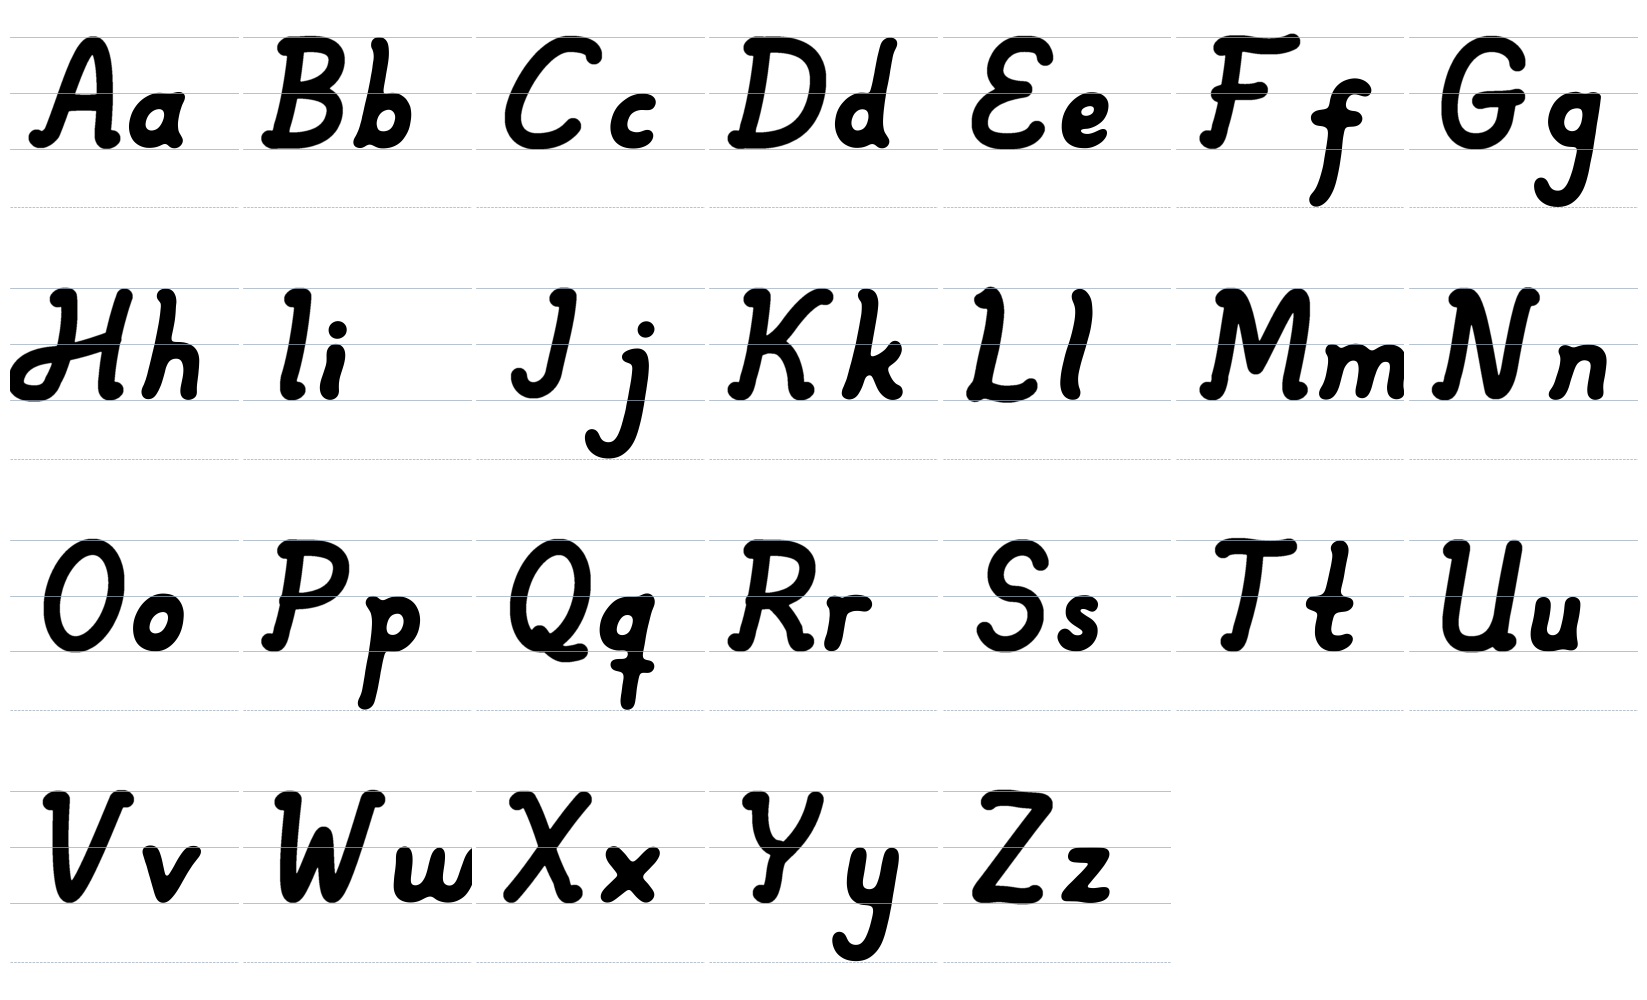
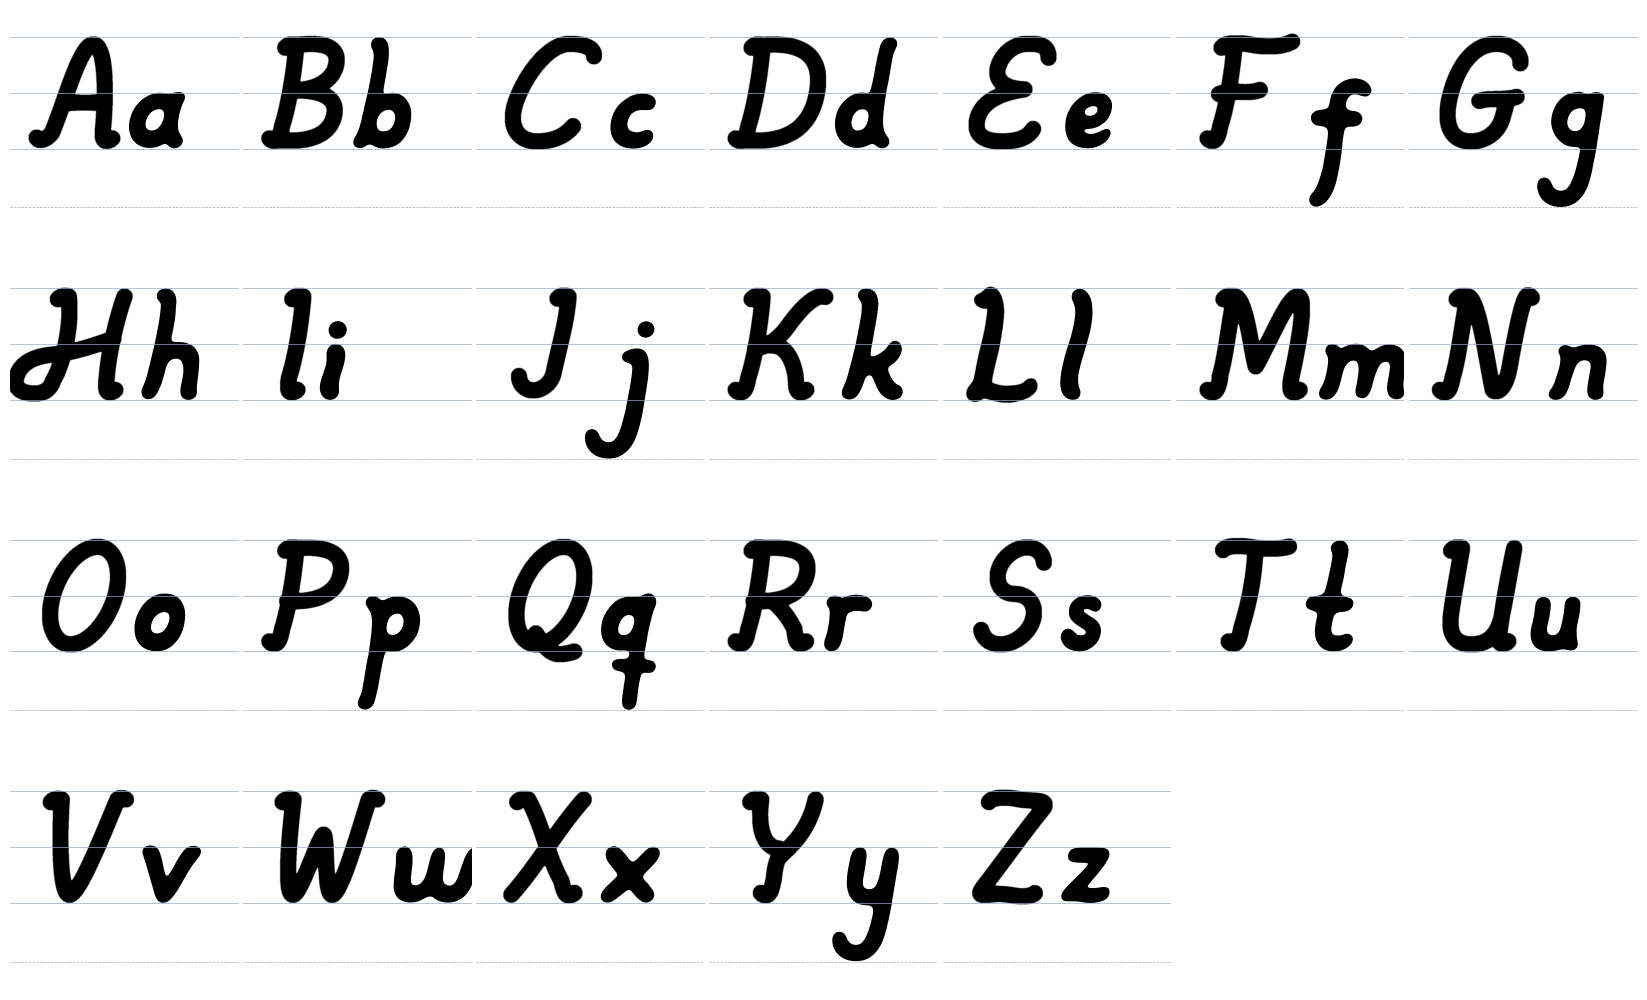
Vind (extra lutning ca 6°) som val: VIND=runda (C, G, O, Q, S, E) eller VIND=alla; jämförelsebilder
Claude-Session: https://claude.ai/code/session_01G3Fa1qrTuHzte3kfXkaDtX

diff --git a/bokstaver/versaler.py b/bokstaver/versaler.py
@@ -143,8 +143,6 @@ def C():
                  ((0.85, HI + OV), (0.32, 2.65), (0.25, 1.65)),
                  ((0.2, 0.75), (0.75, LO - OV), (1.4, LO - OV)),
                  ((1.95, LO - OV), (2.35, 0.42), (2.55, 0.8)))
-    extra = 0.1                                     # extra lutning, ca 6°
-    bana[:, 0] += extra * (bana[:, 1] - 2.0)
     return [bana]
 
 
@@ -242,7 +240,7 @@ def L_varp(p, vinkel, pivot, sank, y_hel=0.7, y_noll=2.0, lut=0.0):
     return ut
 
 
-def L_mask(mapp, under_baslinjen=0.04):
+def L_mask(mapp, under_baslinjen=0.04, vind=0.0):
     """Ditt original-L, med foten vriden så att undersidan ligger i linje med
     baslinjen och benet sänkt lite (foten får gå något under baslinjen)."""
     from PIL import Image, ImageDraw
@@ -254,6 +252,7 @@ def L_mask(mapp, under_baslinjen=0.04):
     under = np.mean([P[(abs(P[:, 0] - x) < 0.05) & (P[:, 1] < 1.2), 1].min() for x in xs])
     sank = under + under_baslinjen
     polys = [[L_varp(r, vinkel, pivot, sank, lut=lut) for r in p] for p in polys]
+    polys = [[r + np.column_stack([vind * (r[:, 1] - 2.0), 0 * r[:, 1]]) for r in p] for p in polys]
     alla = np.vstack([r for p in polys for r in p])
     x0, y0 = alla.min(0) - 0.6
     x1, y1 = alla.max(0) + 0.6
@@ -397,17 +396,43 @@ def mask(banor, halv=HALV, extra=None):
     return d <= halv, x0, y0
 
 
+# "Vind": extra lutning (ca 6°) som får bokstaven att se ut att dras framåt, som lilla c.
+# VIND=runda: bara de runda versalerna (staplarna behåller gemenernas 10°)
+# VIND=alla:  alla versaler
+VIND = 0.1
+VIND_LAGE = os.environ.get("VIND", "runda")
+RUNDA = {"C", "G", "O", "Q", "S", "E"}
+
+
+def har_vind(n):
+    bas = DIAKRIT[n][0] if n in DIAKRIT else n
+    return VIND_LAGE == "alla" or bas in RUNDA
+
+
+def vind(banor):
+    ut = []
+    for b in banor:
+        b = np.array(b, float); b[:, 0] += VIND * (b[:, 1] - 2.0); ut.append(b)
+    return ut
+
+
+def prick_x(n):
+    """Mitten (rak, före lutning) mellan prickarna/ringen över n."""
+    cx = DIAKRIT[n][2]
+    return cx + (VIND * (PRICK_Y - 2.0) if har_vind(n) else 0.0)
+
+
 def bygg_alla(mapp=None):
     ut = {}
     if mapp:
-        ut["L"] = L_mask(mapp)
+        ut["L"] = L_mask(mapp, vind=VIND if VIND_LAGE == "alla" else 0.0)
     for n, f in VERSALER.items():
-        ut[n] = mask(f())
+        ut[n] = mask(vind(f()) if har_vind(n) else f())
     for n, (bas, typ, cx) in DIAKRIT.items():
         banor = VERSALER[bas]()
-        ut[n] = mask(banor)  # ring och prickar är egna delar
+        ut[n] = mask(vind(banor) if har_vind(n) else banor)  # ring och prickar är egna delar
         if typ == "ring":
-            ut[n + "-ring"] = mask(ring(cx, RING_Y), halv=RING_HALV)
+            ut[n + "-ring"] = mask(ring(prick_x(n), RING_Y), halv=RING_HALV)
     return ut
 
 
@@ -456,7 +481,7 @@ def rita_versal(ax, ut, n, dx=0, mapp=None):
         rita_mask(ax, *ut[n + "-ring"], dx=dx)
     if n in ("Ä", "Ö"):
         import matplotlib.pyplot as plt
-        cx = DIAKRIT[n][2]
+        cx = prick_x(n)
         for sx in (-PRICK_DX, PRICK_DX):
             ax.add_patch(plt.Circle((cx + sx + K * PRICK_Y + dx, PRICK_Y), PRICK_R, color="k"))
 

diff --git a/bokstaver/namn.py b/bokstaver/namn.py
@@ -12,7 +12,7 @@ import matplotlib
 matplotlib.use("Agg")
 import matplotlib.pyplot as plt
 
-from versaler import bygg_alla, gemen_polygoner, GEMENER, DIAKRIT, PRICK_Y, PRICK_DX, PRICK_R, K, RUT
+from versaler import bygg_alla, prick_x, gemen_polygoner, GEMENER, DIAKRIT, PRICK_Y, PRICK_DX, PRICK_R, K, RUT
 
 YMIN, YMAX = -2.6, 5.6
 H = int(round((YMAX - YMIN) / RUT))
@@ -34,7 +34,7 @@ def versal(ut, n, mapp):
     xmin = min(l[1] for l in lager)
     xmax = max(l[1] + l[0].shape[1] * RUT for l in lager)
     if n in ("Ä", "Ö"):
-        cx = DIAKRIT[n][2]
+        cx = prick_x(n)
         xmax = max(xmax, cx + PRICK_DX + K * PRICK_Y + PRICK_R)
     g = tom(xmax - xmin)
     for mm, xx, yy in lager:
@@ -43,7 +43,7 @@ def versal(ut, n, mapp):
     if n in ("Ä", "Ö"):
         yy, xx = np.mgrid[0:H, 0:g.shape[1]]
         X, Y = xx * RUT + xmin, yy * RUT + YMIN
-        cx = DIAKRIT[n][2]
+        cx = prick_x(n)
         for sx in (-PRICK_DX, PRICK_DX):
             g |= (X - (cx + sx + K * PRICK_Y)) ** 2 + (Y - PRICK_Y) ** 2 <= PRICK_R ** 2
     return g
